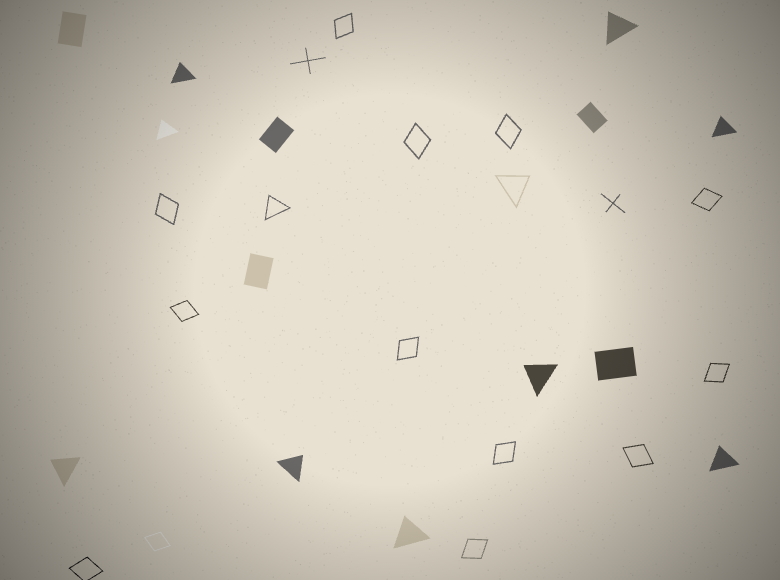
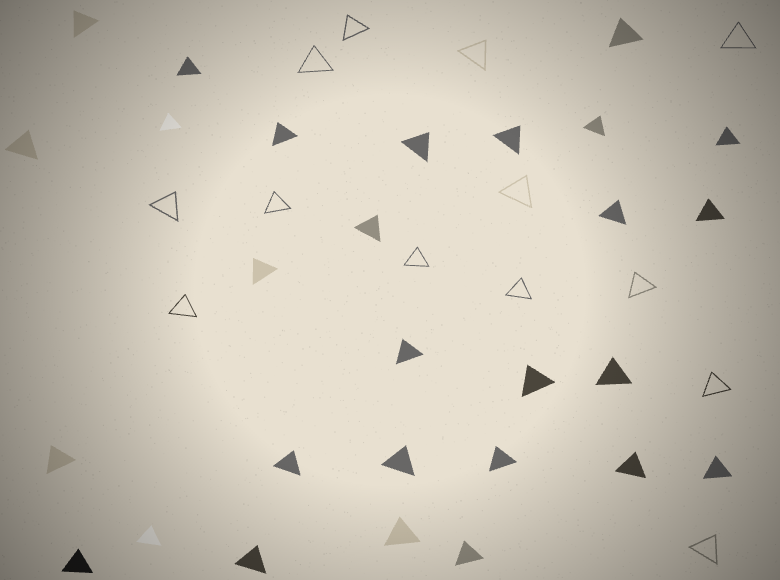
Atlas: add geometric axis (baseShape x disorder x ground) + re-render Day 96 with lockShape

diff --git a/atlas.html b/atlas.html
@@ -219,8 +219,10 @@
 
 <div class="intro">
   The timeline shows what the world asked for; the Atlas shows what the machine can do.
-  Every cell is a behavioral niche — a flow character crossed with a mechanical character on a light or dark ground —
-  holding the best-known <em>score</em> for that kind of composition. Dashed cells are the frontier:
+  Each cell is a behavioral niche holding the best-known <em>score</em> for that kind of composition.
+  The engine works in two spaces: pieces built from a <em>flow character crossed with a mechanical
+  character</em>, and geometric pieces built from a <em>primitive scattered by the disorder dial</em>
+  (baseShape × disorder mode) — each on a light or dark ground. Dashed cells are the frontier:
   compositions this engine has never once made.
 </div>
 
@@ -242,83 +244,107 @@ fetch('./elites-map.json?' + Date.now())
   .then(r => r.json())
   .then(m => {
     const flows = m.axes.flow, mechs = m.axes.mech, grounds = m.axes.ground;
-    const total = flows.length * mechs.length * grounds.length;
-    // Only cells whose coordinates the current engine can actually produce count toward
-    // coverage. Legacy coordinates (see m.legacyAxes) hold real archived pieces but are
-    // shown separately — counting them here would misreport the frontier.
-    const isActive = k => {
+    // Two behaviour spaces: flow×mech (character × character × ground) and geometric
+    // (baseShape × disorderMode × ground). Geometric-dominant pieces that exhibit neither a flow
+    // nor a mech character live in the second space; their cell keys are namespaced 'geo|…'.
+    const GEO_SHAPES = ['circle', 'rectangle', 'triangle', 'diamond', 'cross'];
+    const GEO_MODES = ['uniform', 'radial', 'linear'];
+    const isGeo = k => k.startsWith('geo|');
+    const isActiveFlowMech = k => {
       const [f, mc, gr] = k.split('|');
       return flows.includes(f) && mechs.includes(mc) && grounds.includes(gr);
     };
+    const isActiveGeo = k => {
+      const [, s, mo, gr] = k.split('|');
+      return isGeo(k) && GEO_SHAPES.includes(s) && GEO_MODES.includes(mo) && grounds.includes(gr);
+    };
+    const isActive = k => isGeo(k) ? isActiveGeo(k) : isActiveFlowMech(k);
+    const fmTotal = flows.length * mechs.length * grounds.length;
+    const geoTotal = GEO_SHAPES.length * GEO_MODES.length * grounds.length;
+    const total = fmTotal + geoTotal;
+    // Legacy = cells whose coordinates the current engine can no longer produce (shown separately).
     const activeKeys = Object.keys(m.cells).filter(isActive);
+    const geoFilled = activeKeys.filter(isGeo).length;
     const legacyKeys = Object.keys(m.cells).filter(k => !isActive(k));
     const filled = activeKeys.length;
     document.getElementById('stats').textContent =
       `${filled} of ${total} cells mapped · ${total - filled} on the frontier`
+      + (geoFilled ? ` · ${geoFilled} geometric` : '')
       + (legacyKeys.length ? ` · ${legacyKeys.length} legacy` : '')
       + ` · updated ${m.updated ? m.updated.substring(0, 10) : '—'}`;
 
     const grids = document.getElementById('grids');
-    grounds.forEach(gr => {
+
+    // Build one cell node for a key (shared by both spaces). `frontierLabel` is the two-line
+    // hint shown for an empty (frontier) cell.
+    const buildCell = (key, frontierLabel) => {
+      const e = m.cells[key];
+      if (!e) {
+        const d = document.createElement('div');
+        d.className = 'cell empty';
+        d.innerHTML = `<div class="frontier-label">frontier<br>${frontierLabel}</div>`;
+        return d;
+      }
+      if (e.provenance && e.provenance.filename) {
+        const a = document.createElement('a');
+        a.className = 'cell filled';
+        a.href = e.provenance.gen ? `generative-art-generator.html?gen=${e.provenance.gen}` : `generative-art-generator.html?cell=${encodeURIComponent(key)}`;
+        const dayLabel = e.provenance.day ? `Day ${e.provenance.day}` : (e.provenance.date || 'archive');
+        a.innerHTML = `
+          <img class="thumb" src="${ART_PATH}${e.provenance.filename}" alt="${e.provenance.title || key}" loading="lazy">
+          <div class="meta">
+            <span class="fit">${e.fitness.toFixed(4)}</span>
+            <span class="prov"> · ${dayLabel}${e.provenance.title ? ' · ' + e.provenance.title : ''}</span>
+          </div>`;
+        return a;
+      }
+      const a = document.createElement('a');
+      a.className = 'cell filled unperformed';
+      a.href = `generative-art-generator.html?cell=${encodeURIComponent(key)}`;
+      a.innerHTML = `
+        <div class="score-only">
+          score only — not yet performed<br>
+          <span class="fit">${e.fitness.toFixed(4)}</span> · ${(e.provenance && e.provenance.source) || 'candidate'}<br>
+          <span class="perform">perform →</span>
+        </div>`;
+      return a;
+    };
+
+    // Generic axis-grid builder: rowValues × colValues, keyed by keyFn(row, col, ground).
+    const buildGrid = (title, rowValues, colValues, keyFn, frontierFn) => {
       const section = document.createElement('div');
       section.className = 'ground-section';
-      section.innerHTML = `<h2>${gr} ground</h2>`;
+      section.innerHTML = `<h2>${title}</h2>`;
       const grid = document.createElement('div');
       grid.className = 'atlas-grid';
-      grid.style.gridTemplateColumns = `110px repeat(${mechs.length}, 1fr)`;
-
+      grid.style.gridTemplateColumns = `110px repeat(${colValues.length}, 1fr)`;
       grid.appendChild(document.createElement('div')); // corner
-      mechs.forEach(mc => {
+      colValues.forEach(col => {
         const h = document.createElement('div');
         h.className = 'axis-label';
-        h.textContent = mc;
+        h.textContent = col;
         grid.appendChild(h);
       });
-
-      flows.forEach(fc => {
+      rowValues.forEach(row => {
         const rl = document.createElement('div');
         rl.className = 'axis-label row-label';
-        rl.textContent = fc;
+        rl.textContent = row;
         grid.appendChild(rl);
-
-        mechs.forEach(mc => {
-          const key = `${fc}|${mc}|${gr}`;
-          const e = m.cells[key];
-          if (!e) {
-            const d = document.createElement('div');
-            d.className = 'cell empty';
-            d.innerHTML = `<div class="frontier-label">frontier<br>${fc} / ${mc}</div>`;
-            grid.appendChild(d);
-          } else if (e.provenance && e.provenance.filename) {
-            const a = document.createElement('a');
-            a.className = 'cell filled';
-            a.href = e.provenance.gen ? `generative-art-generator.html?gen=${e.provenance.gen}` : `generative-art-generator.html?cell=${encodeURIComponent(key)}`;
-            const dayLabel = e.provenance.day ? `Day ${e.provenance.day}` : (e.provenance.date || 'archive');
-            a.innerHTML = `
-              <img class="thumb" src="${ART_PATH}${e.provenance.filename}" alt="${e.provenance.title || key}" loading="lazy">
-              <div class="meta">
-                <span class="fit">${e.fitness.toFixed(4)}</span>
-                <span class="prov"> · ${dayLabel}${e.provenance.title ? ' · ' + e.provenance.title : ''}</span>
-              </div>`;
-            grid.appendChild(a);
-          } else {
-            const a = document.createElement('a');
-            a.className = 'cell filled unperformed';
-            a.href = `generative-art-generator.html?cell=${encodeURIComponent(key)}`;
-            a.innerHTML = `
-              <div class="score-only">
-                score only — not yet performed<br>
-                <span class="fit">${e.fitness.toFixed(4)}</span> · ${(e.provenance && e.provenance.source) || 'candidate'}<br>
-                <span class="perform">perform →</span>
-              </div>`;
-            grid.appendChild(a);
-          }
-        });
+        colValues.forEach(col => grid.appendChild(buildCell(keyFn(row, col), frontierFn(row, col))));
       });
-
       section.appendChild(grid);
       grids.appendChild(section);
-    });
+    };
+
+    // Flow × mech space (rows = flows, cols = mechs)
+    grounds.forEach(gr => buildGrid(
+      `${gr} ground`, flows, mechs,
+      (fc, mc) => `${fc}|${mc}|${gr}`, (fc, mc) => `${fc} / ${mc}`));
+
+    // Geometric space (rows = baseShape, cols = disorderMode)
+    grounds.forEach(gr => buildGrid(
+      `geometric — ${gr} ground`, GEO_SHAPES, GEO_MODES,
+      (s, mo) => `geo|${s}|${mo}|${gr}`, (s, mo) => `${s} / ${mo}`));
 
     // ── Legacy coordinates ──────────────────────────────────────────────
     // Characters from earlier engine versions that the current engine can no longer produce
